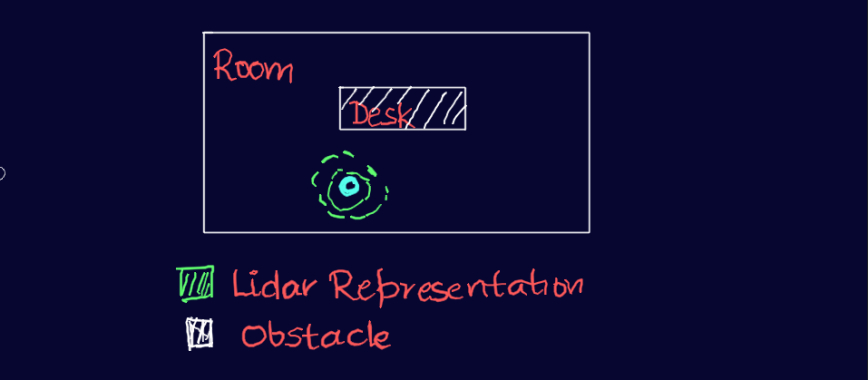
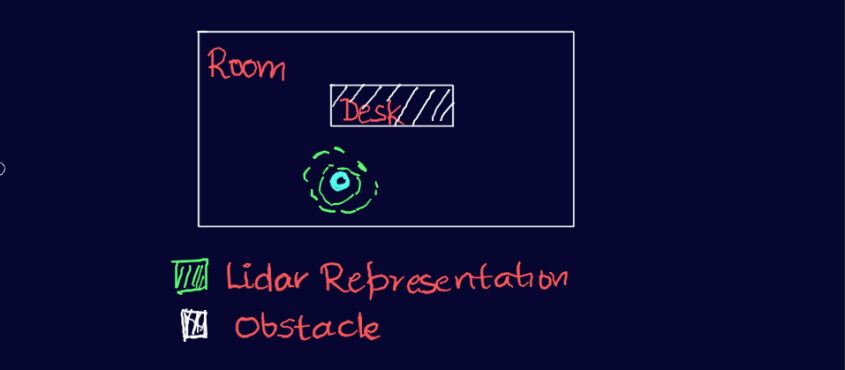
all pngs resize 2

diff --git a/blog1.html b/blog1.html
@@ -103,7 +103,7 @@
   <h2 id="eb736932-c1ef-499c-88ce-a1dd53c7658b" class="">Intuitive Understanding of the Particle Filter</h2><p id="9f594711-2f09-4693-961a-3bf25f8e8cd4" class="">Imagine being blindfolded and spun around like a top. It&#x27;s disorienting, to say the least. In this situation, you can&#x27;t rely on your vision. So, what can you rely on? Your friends, of course! As you stumble in the dark, your friends shout &quot;DANGER! DANGER!&quot; whenever you&#x27;re close to a wall, providing you with crucial cues about your surroundings. However, in a room, there are four walls, so you don&#x27;t know which one you&#x27;re facing. But fear not, there&#x27;s another sense you can use - your hearing. You listen carefully to the direction and distance of your friends&#x27; shouts or even their footsteps while running. With each event of &quot;DANGER&quot; and playful howling, your understanding of your position and orientation in the room improves. Your ultimate objective shifts from understanding your position to the exciting challenge of catching your friends. And as soon as you succeed, the blindfolded role switches to one of your friends.</p><p id="b7ae1dc6-547f-42a5-a496-740fb5bd8683" class="">Now, let&#x27;s draw parallels to the world of robotics. Imagine a robot placed in an environment, armed with a map of its surroundings, just like you had the layout of your own room. However, this robot has no idea about its own pose or what it may be facing. To assist the robot, we equip it with a powerful LIDAR sensor, providing two senses to rely on: the point cloud data of obstacles and a motion model.</p><p id="345e4296-baf4-4c13-8ea4-e7cc631792bb" class="">However, There&#x27;s a question to ponder here How reliable was your distance perception or your friends&#x27; cues during the blindfolded game?</p><p id="d19fae62-bee4-411b-af40-f2d25514da25" class="">If you&#x27;ve followed our previous blog series on the Kalman Filter (highly recommended), you&#x27;re aware that every sensor has noise, and leveraging multiple noisy observations leads to a better estimation.</p>
   </article>
   <article class="page sans">
-    <p id="e44b250d-2702-4217-bb45-03bf82f97328" class="">In our scenario, both the LIDAR point clouds and the motion model introduce noise. Drawing on your familiarity with the Kalman Filter, you might think of using it to handle these noisy inputs and provide an estimated state. However, there&#x27;s an essential requirement - the noise must follow a specific probability distribution known as Gaussian. If the noise doesn&#x27;t fit this distribution, the Kalman Filter won&#x27;t be effective. But where does this non-Gaussian probability distribution is encoutered for that let’s follow the robotics example with a few illustrations</p><h3 id="6d3b4b15-1bdc-4c7e-b4a9-a1635ad02f6d" class="">1. Initialization</h3><p id="3fa9cbe0-a69c-4735-8b13-9b251208bf36" class="">The first step in the Particle Filter algorithm is the initialization phase. The robot starts by scattering particles randomly throughout the space with random orientations. Each particle represents a probable pose of the robot. The number of particles used depends on the size and complexity of the explored space, but for simplicity, let&#x27;s consider 100 poses initially.</p><img src="assets/img/board0.jpg"><p id="61610d7e-9461-4adc-ad2e-e71b25a00763" class="">The random scattering of particles provides an initial approximation of the robot&#x27;s pose distribution in the environment. This distribution is called the &quot;prior distribution&quot; or the &quot;prior belief.&quot;</p><h3 id="9d2b26bc-b39f-43c0-9d0b-5c85ccf63bad" class="">2. Sensor Measurement</h3><p id="57acc6e7-69a8-4378-8363-9adf4fe773ba" class="">Once the particles are scattered, the journey begins with an initial sensor reading from the LIDAR, which provides information about the surroundings. For example, the robot may detect a flat wall straight ahead. This sensor measurement serves as a cue to refine the randomly scattered particles. It is not deterministic as many locations could give this reading even false positives from middle of room facing nothing.</p><p id="5e130dd8-edf4-440f-bd31-d667a65beb92" class="">Using the sensor measurement, the particles are weighted and then resampled, allocating more particles at positions and orientations where they are likely to encounter the observed feature (in this case, the straight wall). The resampling process aims to align the particles with the actual environment, increasing the likelihood of capturing the robot&#x27;s true pose.</p><img src="assets/img/board2.jpg"><p id="ae903bad-7caa-4a48-af9b-939d5080dde5" class="">But what exactly is a MOTION MODEL? In simple terms, it captures the relationship between an object&#x27;s current state (position and orientation) and its future state, considering factors like velocity, acceleration, and direction of movement. The motion model allows us to estimate or predict where the robot is likely to be in the future, given its current state and known control inputs.</p><h3 id="f744cc0d-ab8f-4e42-9bbd-d683e3631fe4" class="">3. Motion Model</h3><p id="78837e32-f9f5-4abc-a23d-c840eab66a5e" class="">As the robot moves, the particles move accordingly. The motion model comes into play to update the particle positions based on the known control inputs and the robot&#x27;s current state. The motion model captures the relationship between the robot&#x27;s current state (position and orientation) and its future state, considering factors like velocity, acceleration, and direction of movement.</p><img src="assets/img/board3.jpg"><p id="aa19ebe1-7a78-451a-affb-ed9b9344eb67" class="">By applying the motion model to each particle, the algorithm predicts where the particles are likely to be in the next time step. This prediction accounts for the robot&#x27;s expected movement, improving the estimation of the robot&#x27;s pose.</p><h3 id="bdeb893a-b3cc-42e3-8d18-2ca542150de1" class="">4. Monte Carlo Localization and Resampling</h3><p id="78dce44c-4fec-4f9e-8641-5403a823a9d4" class="">The Particle Filter algorithm performs the <strong>weight assignment step</strong>. Each particle is assigned a weight that reflects how well it aligns with the sensor measurements. The weight represents the likelihood of a particle being the true pose of the robot given the sensor data.</p><p id="8f79fe32-eaf9-4c06-b6a4-ebdf659278e9" class="">Particles that better match the sensor measurements receive higher weights, while particles that do not align well receive lower weights. This weight assignment is typically done by comparing the sensor measurement with the expected measurement at each particle&#x27;s pose.</p><p id="dd4e4736-5fde-4a43-aa2f-fde2e929da11" class="">The purpose of the weight assignment is to emphasize particles that are more likely to represent the true pose of the robot. It allows the algorithm to focus on particles that have a higher chance of capturing the actual state, filtering out less probable particles.</p><p id="65dc8826-d891-4316-92a2-a1bc96e27f74" class="">After the weight assignment, the Particle Filter algorithm performs resampling to generate a new set of particles for the next iteration. The resampling step aims to maintain a representative set of particles that better represents the true pose distribution.</p><p id="a367ce73-5365-4639-92d3-c9435266f85a" class="">The resampling process is based on the assigned weights. Particles with higher weights have a higher probability of being selected for the next generation, while particles with lower weights have a lower chance of being chosen.</p><p id="0b7bb696-77c2-4faa-b27b-be3b8ed29728" class="">Resampling helps concentrate the particles around areas of high probability, ensuring that the algorithm focuses on regions where the robot is likely to be located. This adaptive resampling enables the algorithm to adapt to changes in the environment and converge to a more accurate estimate of the robot&#x27;s pose.</p><h3 id="9b6415d0-6b66-426b-b7f5-9e947fe96564" class="">5. Non-Gaussian Distribution</h3><p id="3dd64808-01ca-4aed-89cd-7506d0cdf579" class="">Something we had promised before to touch on, let’s bring back few of the old resampling illustrations. Can we call these distribution to be gaussian ? What is gaussian? Well this has been discussed in previous blogs,</p><p id="493156fa-a9e6-48ac-942c-1be7e8850cef" class="">In summary, Gaussian distributions are bell-shaped curves that represent symmetric data clustering around a mean, while non-Gaussian distributions encompass a broader range of shapes and patterns. Well using these illustrations it’s obvious all the resampling makes the distribution to be non-gaussian, and the process of monte-carlo localisation and resampling is the main unit block in particle filters.</p><h3 id="3bd3f79b-92eb-4592-bb4c-c3c31037ad27" class="">6. Iteration</h3><p id="5a5c5ceb-8a8e-4ae6-8700-ccfc71101fdd" class="">The Particle Filter algorithm continues to iterate through the steps of motion prediction, weight assignment, and resampling. With each iteration, the particle filter refines the estimate of the robot&#x27;s pose.</p><p id="d0991ae7-c05f-4582-9d7a-900e71880546" class="">The process doesn&#x27;t end after a single iteration. Multiple iterations are performed to iteratively improve the estimation of the robot&#x27;s pose. As the iterations progress, the particles become increasingly concentrated around the true pose, providing a clearer understanding of the robot&#x27;s state.</p><p id="2d9f981f-51b8-45ce-a8a7-8f6da36d0df0" class="">The number of iterations required depends on the complexity of the environment, the quality of sensor measurements, and the desired level of accuracy. The algorithm continues until the estimated pose converges to a satisfactory level or until a specified stopping criterion is met.</p>
+    <p id="e44b250d-2702-4217-bb45-03bf82f97328" class="">In our scenario, both the LIDAR point clouds and the motion model introduce noise. Drawing on your familiarity with the Kalman Filter, you might think of using it to handle these noisy inputs and provide an estimated state. However, there&#x27;s an essential requirement - the noise must follow a specific probability distribution known as Gaussian. If the noise doesn&#x27;t fit this distribution, the Kalman Filter won&#x27;t be effective. But where does this non-Gaussian probability distribution is encoutered for that let’s follow the robotics example with a few illustrations</p><h3 id="6d3b4b15-1bdc-4c7e-b4a9-a1635ad02f6d" class="">1. Initialization</h3><p id="3fa9cbe0-a69c-4735-8b13-9b251208bf36" class="">The first step in the Particle Filter algorithm is the initialization phase. The robot starts by scattering particles randomly throughout the space with random orientations. Each particle represents a probable pose of the robot. The number of particles used depends on the size and complexity of the explored space, but for simplicity, let&#x27;s consider 100 poses initially.><img src="assets/img/board1.png"></p><p id="61610d7e-9461-4adc-ad2e-e71b25a00763" class="">The random scattering of particles provides an initial approximation of the robot&#x27;s pose distribution in the environment. This distribution is called the &quot;prior distribution&quot; or the &quot;prior belief.&quot;</p><h3 id="9d2b26bc-b39f-43c0-9d0b-5c85ccf63bad" class="">2. Sensor Measurement</h3><p id="57acc6e7-69a8-4378-8363-9adf4fe773ba" class="">Once the particles are scattered, the journey begins with an initial sensor reading from the LIDAR, which provides information about the surroundings. For example, the robot may detect a flat wall straight ahead. This sensor measurement serves as a cue to refine the randomly scattered particles. It is not deterministic as many locations could give this reading even false positives from middle of room facing nothing.</p><p id="5e130dd8-edf4-440f-bd31-d667a65beb92" class="">Using the sensor measurement, the particles are weighted and then resampled, allocating more particles at positions and orientations where they are likely to encounter the observed feature (in this case, the straight wall). The resampling process aims to align the particles with the actual environment, increasing the likelihood of capturing the robot&#x27;s true pose.><img src="assets/img/board2.png"></p><p id="ae903bad-7caa-4a48-af9b-939d5080dde5" class="">But what exactly is a MOTION MODEL? In simple terms, it captures the relationship between an object&#x27;s current state (position and orientation) and its future state, considering factors like velocity, acceleration, and direction of movement. The motion model allows us to estimate or predict where the robot is likely to be in the future, given its current state and known control inputs.</p><h3 id="f744cc0d-ab8f-4e42-9bbd-d683e3631fe4" class="">3. Motion Model</h3><p id="78837e32-f9f5-4abc-a23d-c840eab66a5e" class="">As the robot moves, the particles move accordingly. The motion model comes into play to update the particle positions based on the known control inputs and the robot&#x27;s current state. The motion model captures the relationship between the robot&#x27;s current state (position and orientation) and its future state, considering factors like velocity, acceleration, and direction of movement.><img src="assets/img/board3.png"></p><p id="aa19ebe1-7a78-451a-affb-ed9b9344eb67" class="">By applying the motion model to each particle, the algorithm predicts where the particles are likely to be in the next time step. This prediction accounts for the robot&#x27;s expected movement, improving the estimation of the robot&#x27;s pose.</p><h3 id="bdeb893a-b3cc-42e3-8d18-2ca542150de1" class="">4. Monte Carlo Localization and Resampling</h3><p id="78dce44c-4fec-4f9e-8641-5403a823a9d4" class="">The Particle Filter algorithm performs the <strong>weight assignment step</strong>. Each particle is assigned a weight that reflects how well it aligns with the sensor measurements. The weight represents the likelihood of a particle being the true pose of the robot given the sensor data.</p><p id="8f79fe32-eaf9-4c06-b6a4-ebdf659278e9" class="">Particles that better match the sensor measurements receive higher weights, while particles that do not align well receive lower weights. This weight assignment is typically done by comparing the sensor measurement with the expected measurement at each particle&#x27;s pose.</p><p id="dd4e4736-5fde-4a43-aa2f-fde2e929da11" class="">The purpose of the weight assignment is to emphasize particles that are more likely to represent the true pose of the robot. It allows the algorithm to focus on particles that have a higher chance of capturing the actual state, filtering out less probable particles.</p><p id="65dc8826-d891-4316-92a2-a1bc96e27f74" class="">After the weight assignment, the Particle Filter algorithm performs resampling to generate a new set of particles for the next iteration. The resampling step aims to maintain a representative set of particles that better represents the true pose distribution.</p><p id="a367ce73-5365-4639-92d3-c9435266f85a" class="">The resampling process is based on the assigned weights. Particles with higher weights have a higher probability of being selected for the next generation, while particles with lower weights have a lower chance of being chosen.</p><p id="0b7bb696-77c2-4faa-b27b-be3b8ed29728" class="">Resampling helps concentrate the particles around areas of high probability, ensuring that the algorithm focuses on regions where the robot is likely to be located. This adaptive resampling enables the algorithm to adapt to changes in the environment and converge to a more accurate estimate of the robot&#x27;s pose.</p><h3 id="9b6415d0-6b66-426b-b7f5-9e947fe96564" class="">5. Non-Gaussian Distribution</h3><p id="3dd64808-01ca-4aed-89cd-7506d0cdf579" class="">Something we had promised before to touch on, let’s bring back few of the old resampling illustrations. Can we call these distribution to be gaussian ? What is gaussian? Well this has been discussed in previous blogs,</p><p id="493156fa-a9e6-48ac-942c-1be7e8850cef" class="">In summary, Gaussian distributions are bell-shaped curves that represent symmetric data clustering around a mean, while non-Gaussian distributions encompass a broader range of shapes and patterns. Well using these illustrations it’s obvious all the resampling makes the distribution to be non-gaussian, and the process of monte-carlo localisation and resampling is the main unit block in particle filters.</p><h3 id="3bd3f79b-92eb-4592-bb4c-c3c31037ad27" class="">6. Iteration</h3><p id="5a5c5ceb-8a8e-4ae6-8700-ccfc71101fdd" class="">The Particle Filter algorithm continues to iterate through the steps of motion prediction, weight assignment, and resampling. With each iteration, the particle filter refines the estimate of the robot&#x27;s pose.</p><p id="d0991ae7-c05f-4582-9d7a-900e71880546" class="">The process doesn&#x27;t end after a single iteration. Multiple iterations are performed to iteratively improve the estimation of the robot&#x27;s pose. As the iterations progress, the particles become increasingly concentrated around the true pose, providing a clearer understanding of the robot&#x27;s state.</p><p id="2d9f981f-51b8-45ce-a8a7-8f6da36d0df0" class="">The number of iterations required depends on the complexity of the environment, the quality of sensor measurements, and the desired level of accuracy. The algorithm continues until the estimated pose converges to a satisfactory level or until a specified stopping criterion is met.</p>
     </article>
     <article class="page sans">
       <h2 id="1b9f377f-2476-44d9-affd-74c8631bba00" class="">Conclusion</h2><p id="85732fed-196a-482c-b216-b302d1adfdc8" class="">In this blog, we explored the formal steps involved in the Particle Filter algorithm and gained a more detailed understanding of how it works. From the initialization and scattering of particles to the refinement through sensor measurements and motion models, each step contributes to improving the estimation of the robot&#x27;s pose.</p><p id="40d488d9-e920-465f-b6d6-70a6e4adf91f" class="">The process of weight assignment and resampling helps adaptively handle complex probability spaces, ensuring that the algorithm focuses on areas of high likelihood and filters out less probable particles.</p><p id="deef04d2-6471-4b92-b8bc-d1e53caaea4d" class="">Through iterations, the particle filter progressively refines its estimate, converging to a more accurate representation of the robot&#x27;s pose. This powerful algorithm has revolutionized the field of robotics and enables robots to effectively navigate and interact with their environments.</p><p id="fa063d4b-2073-45ca-8a1b-428b57254fd1" class="">So, the next time you encounter a robot estimating its pose in a complex environment, remember the magic of particle filters and how they rely on the interplay between sensor measurements, motion models, and resampling to unravel the robot&#x27;s state.</p><p id="d10a70f2-6ad9-4fd5-b87b-ef534ff639f3" class="">
